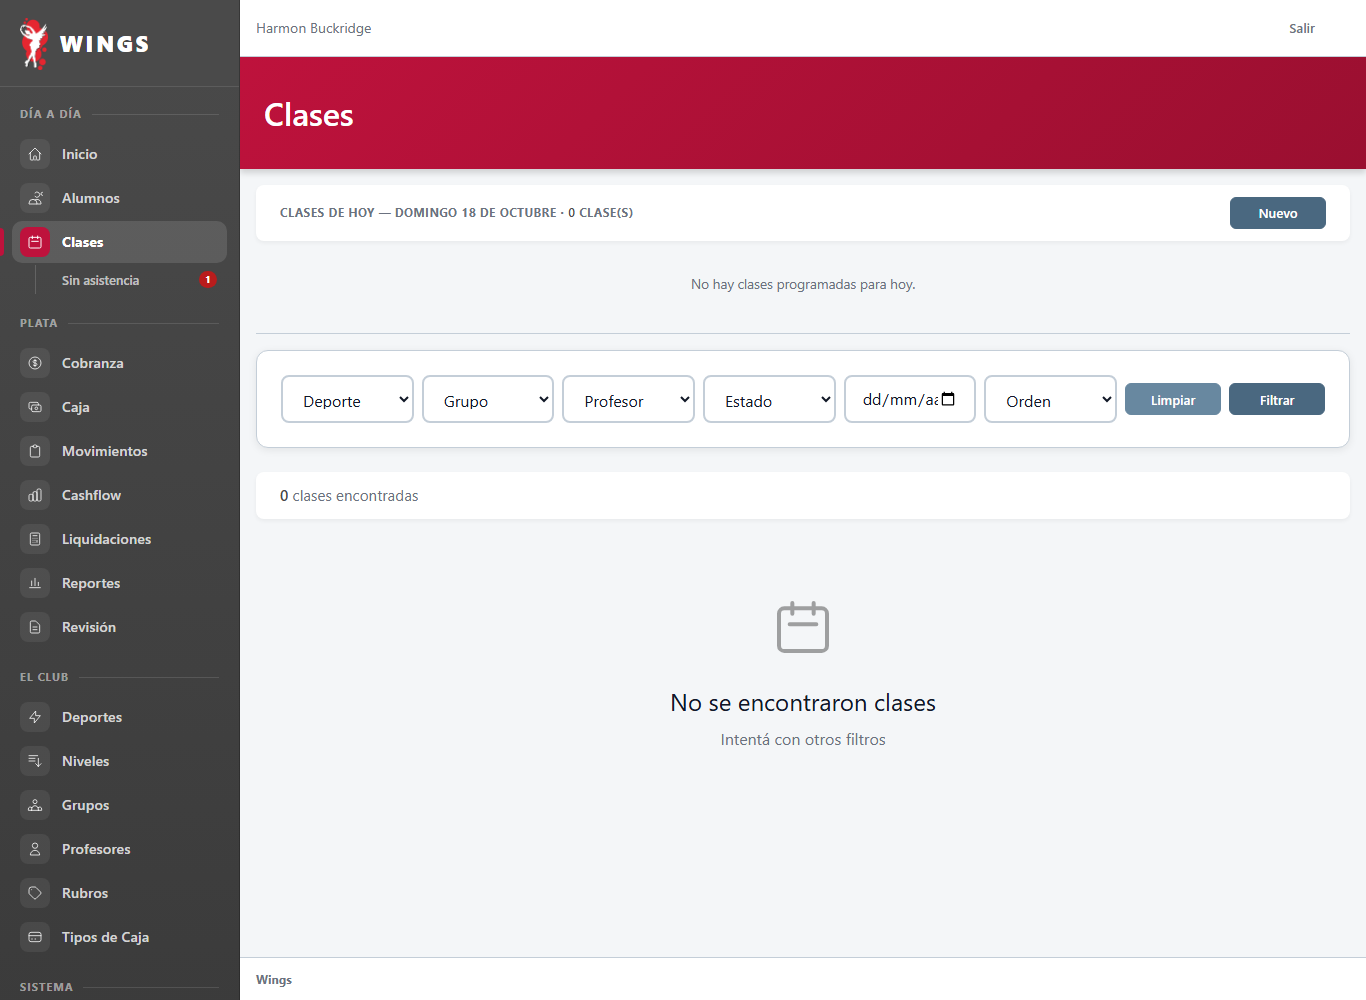
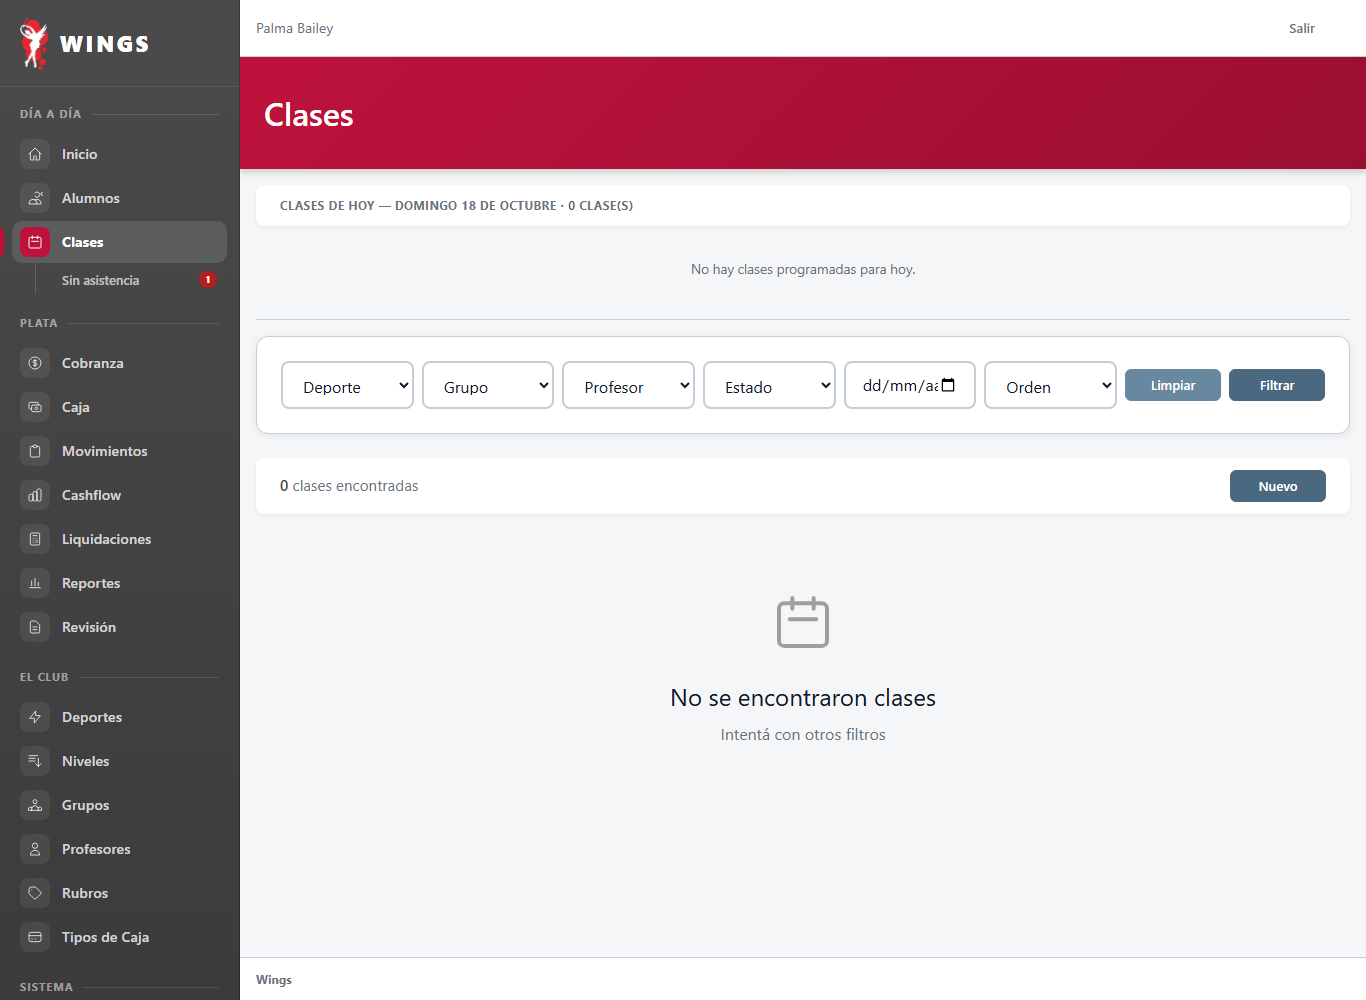
fix(clases): mover boton Nuevo fuera del titulo a la barra de resultados y corregir evidencia con planes activos
- resources/views/clases/index.blade.php: Nuevo movido de stats-bar superior a stats-bar inferior de resultados
- tests/Feature/ClaseSinAsistenciaYDniT34T67Test.php: asignado plan activo al alumno en setUp y aserciones de plan
- docs/06-pruebas/PRU-04/evidencia-t34-t67/: 6 capturas regeneradas mostrando Nuevo en resultados y alumnos con plan (0/2)
- LOG-GEMINI.md e IMPLEMENTACION-T34-T67.md actualizados

Diseno-autorizado: Carlos pidio mover el boton Nuevo fuera del div de titulo de clases hacia la barra de resultados y corregir datos de prueba con planes activos

diff --git a/docs/06-pruebas/PRU-04/evidencia-t34-t67/03-lista-asistencia-dni-recortado.html b/docs/06-pruebas/PRU-04/evidencia-t34-t67/03-lista-asistencia-dni-recortado.html
@@ -3,7 +3,7 @@
 <head>
     <meta charset="utf-8">
     <meta name="viewport" content="width=device-width, initial-scale=1">
-    <meta name="csrf-token" content="xoOhkqn2i5rz7JvHxugfB4aw7tUS7ZN2VjcGamHz">
+    <meta name="csrf-token" content="tUpKsndGzgFE8pnIqAL73BydLDOxAhEplDGxrLKi">
     <title>Lunes 12 de octubre de 2026 — Patin — Inicial – Wings</title>
     <link rel="icon" type="image/x-icon" href="http://gestion-wings/favicon.ico">
     <link rel="icon" type="image/png" sizes="32x32" href="http://gestion-wings/favicon-32x32.png">
@@ -223,10 +223,10 @@
                             <path stroke-linecap="round" stroke-linejoin="round" stroke-width="2" d="M4 6h16M4 12h16M4 18h16"/>
                         </svg>
                     </button>
-                    <span class="text-sm text-[var(--color-text-muted)]" style="overflow:hidden; text-overflow:ellipsis; white-space:nowrap;">Harmon Buckridge</span>
+                    <span class="text-sm text-[var(--color-text-muted)]" style="overflow:hidden; text-overflow:ellipsis; white-space:nowrap;">Palma Bailey</span>
                 </div>
                 <form method="POST" action="http://gestion-wings/logout">
-                    <input type="hidden" name="_token" value="xoOhkqn2i5rz7JvHxugfB4aw7tUS7ZN2VjcGamHz" autocomplete="off">                    <button class="ds-btn ds-btn--ghost"
+                    <input type="hidden" name="_token" value="tUpKsndGzgFE8pnIqAL73BydLDOxAhEplDGxrLKi" autocomplete="off">                    <button class="ds-btn ds-btn--ghost"
             type="submit"
             >
 
@@ -319,7 +319,7 @@
                 
                 
                                     <form method="POST" action="http://gestion-wings/clases/2/validar" style="display:inline;">
-                        <input type="hidden" name="_token" value="xoOhkqn2i5rz7JvHxugfB4aw7tUS7ZN2VjcGamHz" autocomplete="off"> <input type="hidden" name="_method" value="PATCH">                        <button type="submit"
+                        <input type="hidden" name="_token" value="tUpKsndGzgFE8pnIqAL73BydLDOxAhEplDGxrLKi" autocomplete="off"> <input type="hidden" name="_method" value="PATCH">                        <button type="submit"
                                 style="display:inline-flex; align-items:center; justify-content:center;
                                        width:96px; height:32px; font-size:0.82rem; font-weight:600;
                                        border-radius:var(--radius-btn); cursor:pointer; white-space:nowrap;
@@ -455,7 +455,7 @@
 <div class="ds-card ds-surface alumno-asistencia-card"
      id="card-2"
      data-alumno-id="2"
-     data-plan="0"
+     data-plan="2"
      data-asistencias-semana="0"
      style="margin-bottom:10px;
             
@@ -469,13 +469,15 @@
         <div class="flex items-center justify-between gap-3">
             <div class="min-w-0 flex-1">
                 <div class="flex items-center gap-2">
-                    <span class="ds-dot ds-dot--neutral flex-shrink-0"></span>
+                    <span class="ds-dot ds-dot--success flex-shrink-0"></span>
                     <span style="font-weight:700; font-size:0.9rem;" class="truncate">
                         Gomez, Camila
                     </span>
                 </div>
                 <div class="flex items-center gap-2 mt-0.5 text-xs text-wings-muted" style="margin-left: 14px;">
-                                            <span>Sin plan</span>
+                                            <span style="font-weight:600; color:var(--color-success);">
+                            0/2
+                                                    </span>
                                                                 <span>· DNI …543</span>
                                     </div>
             </div>
@@ -520,7 +522,7 @@
 <div class="ds-card ds-surface alumno-asistencia-card"
      id="card-1"
      data-alumno-id="1"
-     data-plan="0"
+     data-plan="2"
      data-asistencias-semana="0"
      style="margin-bottom:10px;
             
@@ -534,13 +536,15 @@
         <div class="flex items-center justify-between gap-3">
             <div class="min-w-0 flex-1">
                 <div class="flex items-center gap-2">
-                    <span class="ds-dot ds-dot--neutral flex-shrink-0"></span>
+                    <span class="ds-dot ds-dot--success flex-shrink-0"></span>
                     <span style="font-weight:700; font-size:0.9rem;" class="truncate">
                         Gomez, Sofia
                     </span>
                 </div>
                 <div class="flex items-center gap-2 mt-0.5 text-xs text-wings-muted" style="margin-left: 14px;">
-                                            <span>Sin plan</span>
+                                            <span style="font-weight:600; color:var(--color-success);">
+                            0/2
+                                                    </span>
                                                                 <span>· DNI …456</span>
                                     </div>
             </div>
@@ -628,7 +632,7 @@
 
 <script>
 (function () {
-    const infoSemana = {"2":{"asistencias_semana":0,"plan_semana":null,"excede":false},"1":{"asistencias_semana":0,"plan_semana":null,"excede":false}};
+    const infoSemana = {"2":{"asistencias_semana":0,"plan_semana":2,"excede":false},"1":{"asistencias_semana":0,"plan_semana":2,"excede":false}};
     const claseId    = 2;
     // El motivo solo se exige cuando se corrige algo YA cargado, no en la
     // primera carga de una clase que quedó sin tomar.

diff --git a/docs/06-pruebas/PRU-04/evidencia-t34-t67/01-contador-menu-sin-asistencia.html b/docs/06-pruebas/PRU-04/evidencia-t34-t67/01-contador-menu-sin-asistencia.html
@@ -3,7 +3,7 @@
 <head>
     <meta charset="utf-8">
     <meta name="viewport" content="width=device-width, initial-scale=1">
-    <meta name="csrf-token" content="xoOhkqn2i5rz7JvHxugfB4aw7tUS7ZN2VjcGamHz">
+    <meta name="csrf-token" content="tUpKsndGzgFE8pnIqAL73BydLDOxAhEplDGxrLKi">
     <title>Clases – Wings</title>
     <link rel="icon" type="image/x-icon" href="http://gestion-wings/favicon.ico">
     <link rel="icon" type="image/png" sizes="32x32" href="http://gestion-wings/favicon-32x32.png">
@@ -223,10 +223,10 @@
                             <path stroke-linecap="round" stroke-linejoin="round" stroke-width="2" d="M4 6h16M4 12h16M4 18h16"/>
                         </svg>
                     </button>
-                    <span class="text-sm text-[var(--color-text-muted)]" style="overflow:hidden; text-overflow:ellipsis; white-space:nowrap;">Harmon Buckridge</span>
+                    <span class="text-sm text-[var(--color-text-muted)]" style="overflow:hidden; text-overflow:ellipsis; white-space:nowrap;">Palma Bailey</span>
                 </div>
                 <form method="POST" action="http://gestion-wings/logout">
-                    <input type="hidden" name="_token" value="xoOhkqn2i5rz7JvHxugfB4aw7tUS7ZN2VjcGamHz" autocomplete="off">                    <button class="ds-btn ds-btn--ghost"
+                    <input type="hidden" name="_token" value="tUpKsndGzgFE8pnIqAL73BydLDOxAhEplDGxrLKi" autocomplete="off">                    <button class="ds-btn ds-btn--ghost"
             type="submit"
             >
 
@@ -258,16 +258,7 @@
         Clases de hoy — domingo 18 de octubre
         · <strong>0</strong> clase(s)
     </div>
-            <a class="ds-btn ds-btn--primary"
-       href="http://gestion-wings/clases/create"
-       role="button">
-
-                    
-                            Nuevo
-                    
-    </a>
-
-    </div>
+</div>
 
 <div id="clases-hoy-container"
      style="max-height:240px; overflow-y:auto; display:flex;
@@ -368,7 +359,16 @@
     <div class="stats-info">
                     <strong>0</strong> clases encontradas
             </div>
-</div>
+            <a class="ds-btn ds-btn--primary"
+       href="http://gestion-wings/clases/create"
+       role="button">
+
+                    
+                            Nuevo
+                    
+    </a>
+
+    </div>
 
 <div id="clases-listado">
 

diff --git a/docs/06-pruebas/PRU-04/evidencia-t34-t67/02-filtro-sin-presentes.html b/docs/06-pruebas/PRU-04/evidencia-t34-t67/02-filtro-sin-presentes.html
@@ -3,7 +3,7 @@
 <head>
     <meta charset="utf-8">
     <meta name="viewport" content="width=device-width, initial-scale=1">
-    <meta name="csrf-token" content="xoOhkqn2i5rz7JvHxugfB4aw7tUS7ZN2VjcGamHz">
+    <meta name="csrf-token" content="tUpKsndGzgFE8pnIqAL73BydLDOxAhEplDGxrLKi">
     <title>Clases – Wings</title>
     <link rel="icon" type="image/x-icon" href="http://gestion-wings/favicon.ico">
     <link rel="icon" type="image/png" sizes="32x32" href="http://gestion-wings/favicon-32x32.png">
@@ -223,10 +223,10 @@
                             <path stroke-linecap="round" stroke-linejoin="round" stroke-width="2" d="M4 6h16M4 12h16M4 18h16"/>
                         </svg>
                     </button>
-                    <span class="text-sm text-[var(--color-text-muted)]" style="overflow:hidden; text-overflow:ellipsis; white-space:nowrap;">Harmon Buckridge</span>
+                    <span class="text-sm text-[var(--color-text-muted)]" style="overflow:hidden; text-overflow:ellipsis; white-space:nowrap;">Palma Bailey</span>
                 </div>
                 <form method="POST" action="http://gestion-wings/logout">
-                    <input type="hidden" name="_token" value="xoOhkqn2i5rz7JvHxugfB4aw7tUS7ZN2VjcGamHz" autocomplete="off">                    <button class="ds-btn ds-btn--ghost"
+                    <input type="hidden" name="_token" value="tUpKsndGzgFE8pnIqAL73BydLDOxAhEplDGxrLKi" autocomplete="off">                    <button class="ds-btn ds-btn--ghost"
             type="submit"
             >
 
@@ -258,16 +258,7 @@
         Clases de hoy — domingo 18 de octubre
         · <strong>0</strong> clase(s)
     </div>
-            <a class="ds-btn ds-btn--primary"
-       href="http://gestion-wings/clases/create"
-       role="button">
-
-                    
-                            Nuevo
-                    
-    </a>
-
-    </div>
+</div>
 
 <div id="clases-hoy-container"
      style="max-height:240px; overflow-y:auto; display:flex;
@@ -370,7 +361,16 @@
             a <strong>1</strong>
             de <strong>1</strong> clase(s)
             </div>
-</div>
+            <a class="ds-btn ds-btn--primary"
+       href="http://gestion-wings/clases/create"
+       role="button">
+
+                    
+                            Nuevo
+                    
+    </a>
+
+    </div>
 
 <div id="clases-listado">
 

diff --git a/tests/Feature/ClaseSinAsistenciaYDniT34T67Test.php b/tests/Feature/ClaseSinAsistenciaYDniT34T67Test.php
@@ -8,6 +8,8 @@ use App\Models\Grupo;
 use App\Models\Nivel;
 use App\Models\Profesor;
 use App\Models\Alumno;
+use App\Models\GrupoPlan;
+use App\Models\AlumnoPlan;
 use App\Models\Asistencia;
 use App\Models\User;
 use App\Services\LiquidacionService;
@@ -70,6 +72,20 @@ class ClaseSinAsistenciaYDniT34T67Test extends TestCase
             'deporte_id' => $deporte->id,
             'grupo_id' => $this->grupo->id,
             'fecha_alta' => '2026-09-01',
+            'activo' => true,
+        ]);
+
+        $plan = GrupoPlan::create([
+            'grupo_id' => $this->grupo->id,
+            'clases_por_semana' => 2,
+            'precio_mensual' => 15000.00,
+            'activo' => true,
+        ]);
+
+        AlumnoPlan::create([
+            'alumno_id' => $this->alumno->id,
+            'plan_id' => $plan->id,
+            'fecha_desde' => '2026-09-01',
             'activo' => true,
         ]);
     }
@@ -225,5 +241,9 @@ class ClaseSinAsistenciaYDniT34T67Test extends TestCase
 
         // NO debe contener el DNI completo '42123456'
         $resp->assertDontSee('42123456');
+
+        // El alumno tiene plan activo: no debe figurar 'Sin plan' y debe mostrar el ratio semanal '0/2'
+        $resp->assertDontSee('Sin plan');
+        $resp->assertSee('0/2');
     }
 }

diff --git a/resources/views/clases/index.blade.php b/resources/views/clases/index.blade.php
@@ -77,11 +77,6 @@ $diasSemana = ['Dom','Lun','Mar','Mié','Jue','Vie','Sáb'];
         {{ $tituloHoy }} — {{ \Carbon\Carbon::now()->locale('es')->isoFormat('dddd D [de] MMMM') }}
         · <strong>{{ $misClasesHoy->where('cancelada', false)->count() }}</strong> clase(s)
     </div>
-    @if($esAdmin)
-        <x-ds.button variant="primary" href="{{ route('web.clases.create') }}">
-            Nuevo
-        </x-ds.button>
-    @endif
 </div>
 
 <div id="clases-hoy-container"
@@ -208,6 +203,11 @@ $diasSemana = ['Dom','Lun','Mar','Mié','Jue','Vie','Sáb'];
             <strong>0</strong> clases encontradas
         @endif
     </div>
+    @if($esAdmin)
+        <x-ds.button variant="primary" href="{{ route('web.clases.create') }}">
+            Nuevo
+        </x-ds.button>
+    @endif
 </div>
 
 <div id="clases-listado">

diff --git a/docs/00-estado/LOG-GEMINI.md b/docs/00-estado/LOG-GEMINI.md
@@ -9,6 +9,16 @@ no son nuevas verificaciones ni nuevas firmas del agente resumido.
 
 [Histórico completo hasta el corte](../99-archivo/bitacoras/2026-09-12/LOG-GEMINI.md)
 
+## 2026-10-19 — LOG GEM CAB — Corrección de diseño y evidencia en T34 y T67 (botón Nuevo fuera del título y planes activos en simulación)
+
+- **Corrección de diseño visual (orden de Carlos):**
+  - En `resources/views/clases/index.blade.php`: se retiró el botón `<x-ds.button>` `Nuevo` de la barra de título de *"Clases de hoy"* (`stats-bar` superior).
+  - Se ubicó en la barra de resultados (`stats-bar mb-3` debajo de los filtros, sección E, a la derecha del contador de resultados), coincidiendo canónicamente con `alumnos/index.blade.php`.
+- **Corrección de datos de simulación y pruebas:**
+  - En `tests/Feature/ClaseSinAsistenciaYDniT34T67Test.php`: se asignaron `GrupoPlan` y `AlumnoPlan` activos al alumno en `setUp()`. Se agregó aserción verificando que no figure `Sin plan` y que muestre el ratio semanal (`0/2`).
+  - Se regeneraron las 6 capturas de evidencia real en `docs/06-pruebas/PRU-04/evidencia-t34-t67/` con alumnos que poseen plan activo: en `clases/show` ahora figura `0/2` en verde en lugar de `Sin plan`, y en el listado `Nuevo` está ubicado exclusivamente en la barra de resultados.
+- **Suite completa:** 882 pruebas pasadas (7823 assertions) en `wings_testing_gemini`.
+
 ## 2026-10-18 — LOG GEM CAB — Implementación de T34 y T67: Clases con lista tomada y DNI recortado en lista de asistencia
 
 - **Objetivo y alcance:** Implementar T34 (DU-33: con lista tomada sale del contador y de «Sin asistencia», y queda en filtro nuevo «Sin presentes» para decisión del dueño) y T67 (DU-56: en la lista de asistencia mostrar solo los últimos 3 números del DNI: `DNI …123`).

diff --git a/docs/06-pruebas/PRU-04/IMPLEMENTACION-T34-T67.md b/docs/06-pruebas/PRU-04/IMPLEMENTACION-T34-T67.md
@@ -80,13 +80,15 @@
 
 ## 4. Evidencia Visual
 
-Las capturas fueron generadas utilizando Chrome headless sobre el HTML producido por Wings:
+Las capturas fueron generadas utilizando Chrome headless sobre el HTML producido por la aplicación:
 - **01. Contador del menú (Sin asistencia):**
   - Escritorio (1366px): `docs/06-pruebas/PRU-04/evidencia-t34-t67/01-contador-menu-sin-asistencia-escritorio-1366.png`
   - Móvil (360px): `docs/06-pruebas/PRU-04/evidencia-t34-t67/01-contador-menu-sin-asistencia-marco-360.png`
+  - *Detalle:* El botón `Nuevo` está ubicado exclusivamente en la barra de resultados (sección E, debajo de los filtros), sin invadir la barra de título de «Clases de hoy».
 - **02. Filtro nuevo «Sin presentes» (solo dueño):**
   - Escritorio (1366px): `docs/06-pruebas/PRU-04/evidencia-t34-t67/02-filtro-sin-presentes-escritorio-1366.png`
   - Móvil (360px): `docs/06-pruebas/PRU-04/evidencia-t34-t67/02-filtro-sin-presentes-marco-360.png`
-- **03. Lista de asistencia con DNI recortado:**
+- **03. Lista de asistencia con DNI recortado y planes activos:**
   - Escritorio (1366px): `docs/06-pruebas/PRU-04/evidencia-t34-t67/03-lista-asistencia-dni-recortado-escritorio-1366.png`
   - Móvil (360px): `docs/06-pruebas/PRU-04/evidencia-t34-t67/03-lista-asistencia-dni-recortado-marco-360.png`
+  - *Detalle:* Alumnos con `GrupoPlan` y `AlumnoPlan` activos (`0/2`), DNI recortado (`…543` y `…456`), sin estado `Sin plan`.
